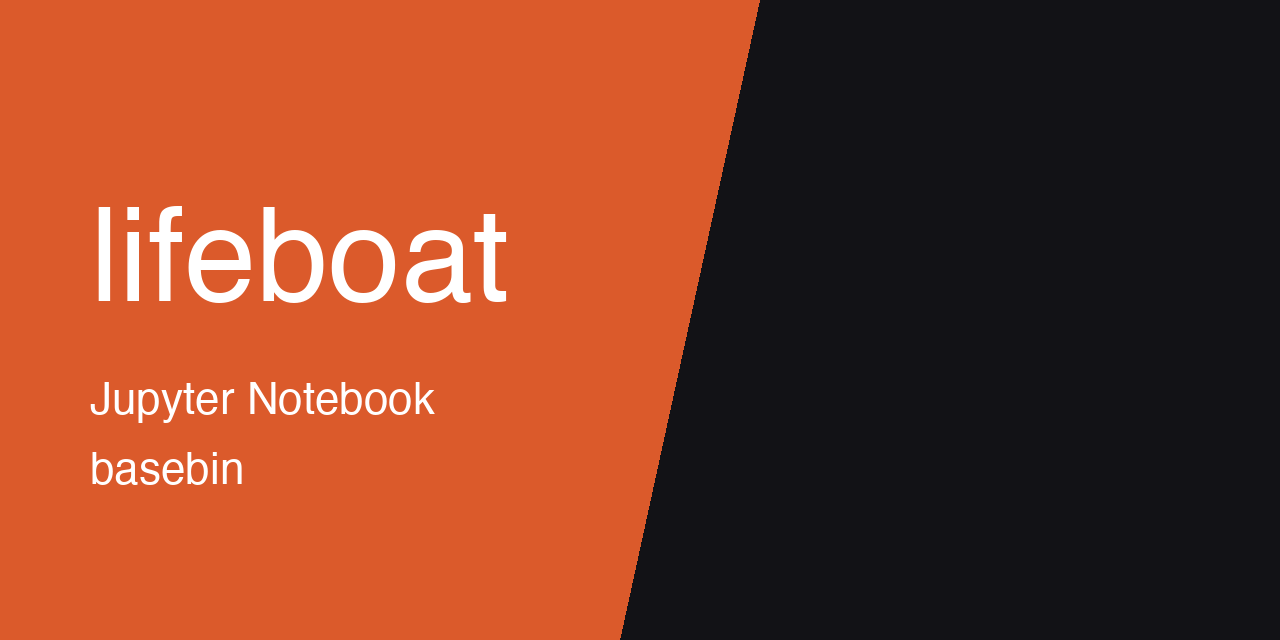
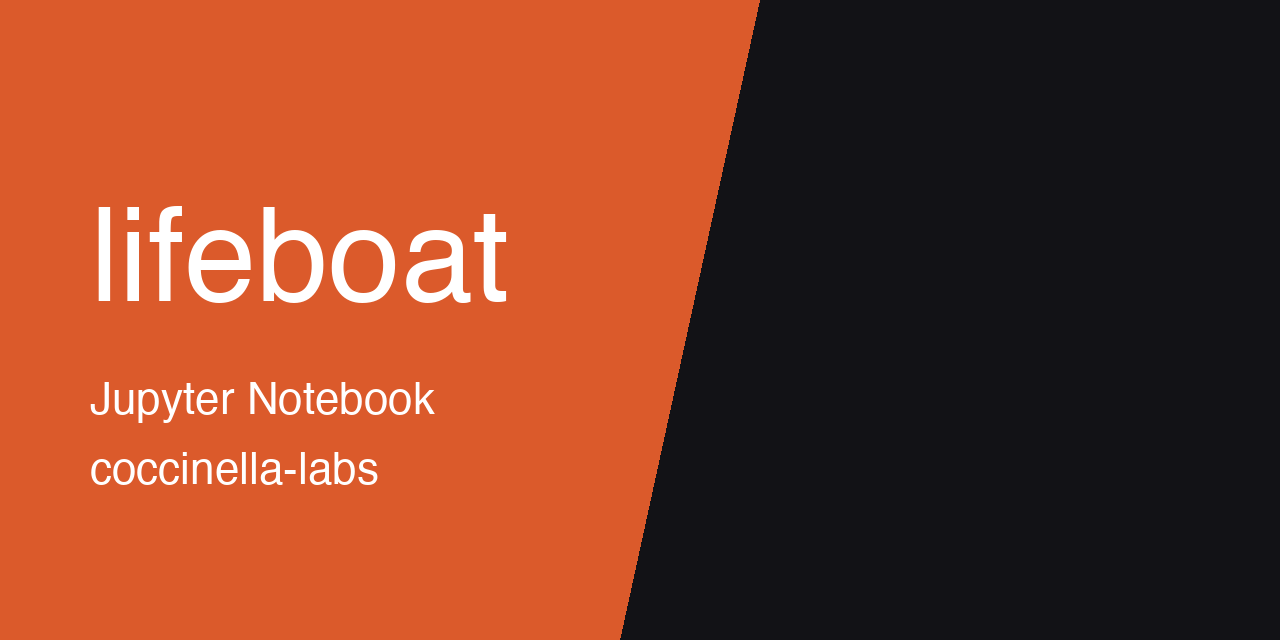
[docs] move thumbnail to coccinella-labs

Changed region(s): [[0.0625, 0.7188, 0.3125, 0.7812]]

diff --git a/README.md b/README.md
@@ -1,5 +1,5 @@
 <p align="center">
-  <img src="https://raw.githubusercontent.com/basebin/lifeboat/main/.github/assets/thumbnail.png" alt="lifeboat" width="100%">
+  <img src="https://raw.githubusercontent.com/Coccinella-Labs/lifeboat/main/.github/assets/thumbnail.png" alt="lifeboat" width="100%">
 </p>
 
 ---
